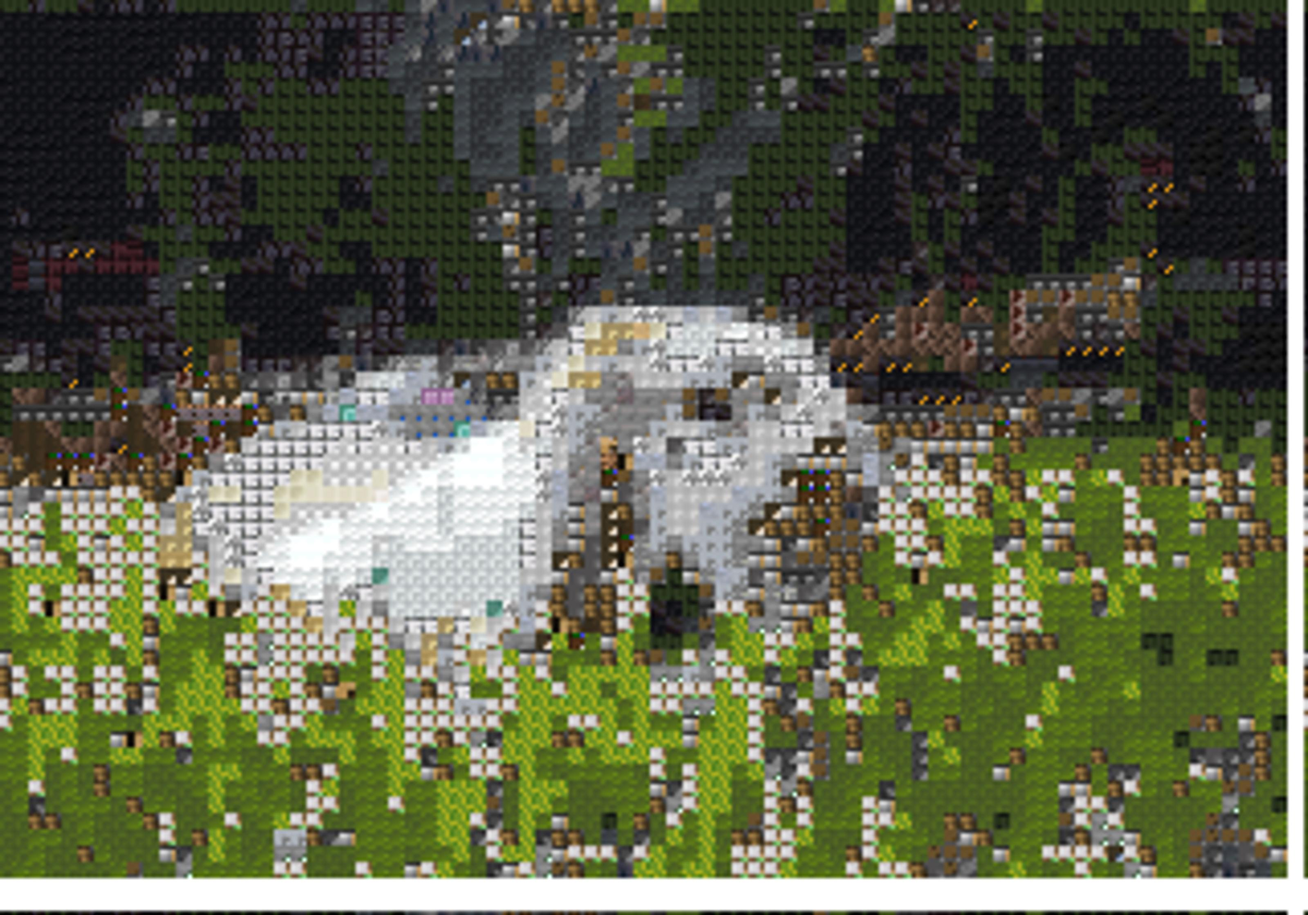
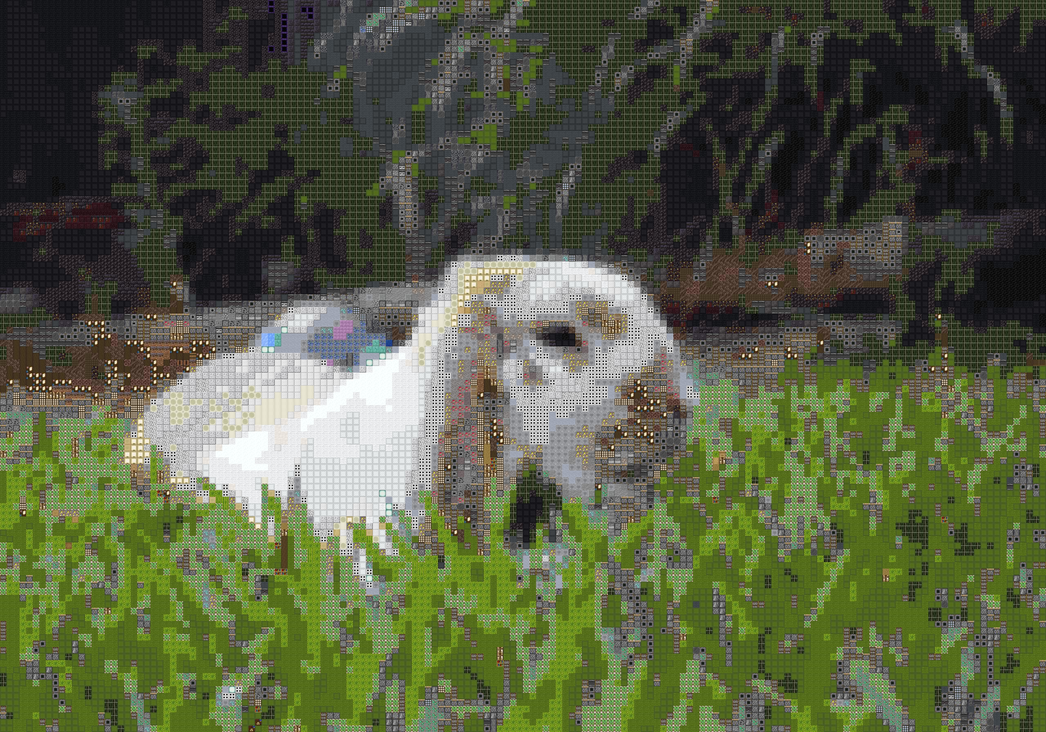
APPLE PIE

diff --git a/color_blocks.py b/color_blocks.py
@@ -41,28 +41,29 @@ def Find_Colour_Match(pxColour, DATA_CSV=DATA_CSV):
 # print(cd)
 
 #---------------------------------------------------------------------------------------------------------------------------------------------------------------
-boxLength = 4
+boxLength = 16
 boxSize = boxLength* boxLength
 
 # Open Paddington and make sure he is RGB - not palette
-IMG_NAME = '4.jpg'
+IMG_NAME = '2.jpg'
 im = Image.open(f"input/{IMG_NAME}").convert('RGB')
 width, height = im.size
 
-if width > 1000 or height > 1000:
-    w2 = int(width/8)
-    h2 = int(height/8)
-    im = im.resize((w2,h2))
-    width, height = im.size
+# if width < 1000 or height < 1000:
+#     w2 = int(width/8)
+#     h2 = int(height/8)
+#     im = im.resize((w2,h2))
+#     width, height = im.size
+
 
 colours = []
 
-def adjustSize(dimension, base=boxSize):
+def adjustSize(dimension, base=boxLength):
     return base * round(float(dimension) / base)
 width = (adjustSize(width)) #* 16
 height = (adjustSize(height)) #* 16
 
-im.resize((width,height))
+im = im.resize((width,height))
 
 new = Image.new("RGB", (width, height),(255, 255, 255))
 
@@ -72,13 +73,14 @@ boxPoints = []
 
 wScale = 2
 
-for x in range(0, width-(boxLength), boxLength):
+for x in range(0, width, boxLength):
     
-    for y in range(0, height-(wScale*boxLength), boxLength):
+    for y in range(0, height, boxLength):
         origin = (x,y)
         boxPoints.append(origin)
 
-print(boxPoints[-4:])
+# print(boxPoints[-4:])
+# print(im.getpixel((0,216)))
 
 for pt in boxPoints:
     # print(pt)
@@ -89,11 +91,13 @@ for pt in boxPoints:
     ave_r = 0
     ave_g = 0
     ave_b = 0
-    for px in range(x-1,x+3):
-        for py in range(y-1, y+3):
-            # print(pt, "d:",px,py)
+    for px in range(x,x+boxLength):
+        for py in range(y, y+boxLength):
+            
+            # print(pt, "d:",px,py, width, height)
             colours.append(im.getpixel((px,py)))
             # print(px,py)
+            
     for rgb in colours:
         ave_r += rgb[0]
         ave_g += rgb[1]
@@ -110,8 +114,10 @@ for pt in boxPoints:
     currBlockImg = Image.open(matchImgPath).convert('RGB')
     currColour = None
 
-    for px in range(x-1,x+3): # Change the colour to the average
-        for py in range(y-1, y+3):
+    # new[y:y+16, x:x+16] = currBlockImg
+
+    for px in range(x,x+boxLength): # Change the colour to the average
+        for py in range(y, y+boxLength):
             currColour = currBlockImg.getpixel((px-x,py-y))
             new.putpixel((px,py), currColour) 
 
@@ -134,7 +140,7 @@ for pt in boxPoints:
 # for x in range(pt[0], pt[0]+boxLength):
 #     for y in range(pt[1], pt[1]+boxLength):
 #         im.putpixel((x,y), avgRGB)
-new = new.resize((width*10,height*10))
+# new = new.resize((width*8,height*8))
 
 dir = os.listdir("./output")
 

diff --git a/trash/test.py b/trash/test.py
@@ -41,10 +41,13 @@
 # d = ["output1.png","output2.png","output3.png","output4.png"]
 # print(max(d))
 
-from PIL import Image
-im = Image.open(f"input/4.jpg").convert('RGB')
-w,h = im.size
-w = w/8
-h = h/8
-im = im.resize()
-new = new.save(f"./output/{IMG_NAME}")
+# from PIL import Image
+# im = Image.open(f"input/4.jpg").convert('RGB')
+# w,h = im.size
+# w = w/8
+# h = h/8
+# im = im.resize()
+# new = new.save(f"./output/{IMG_NAME}")
+
+for i in range(0,4):
+    print(i)
